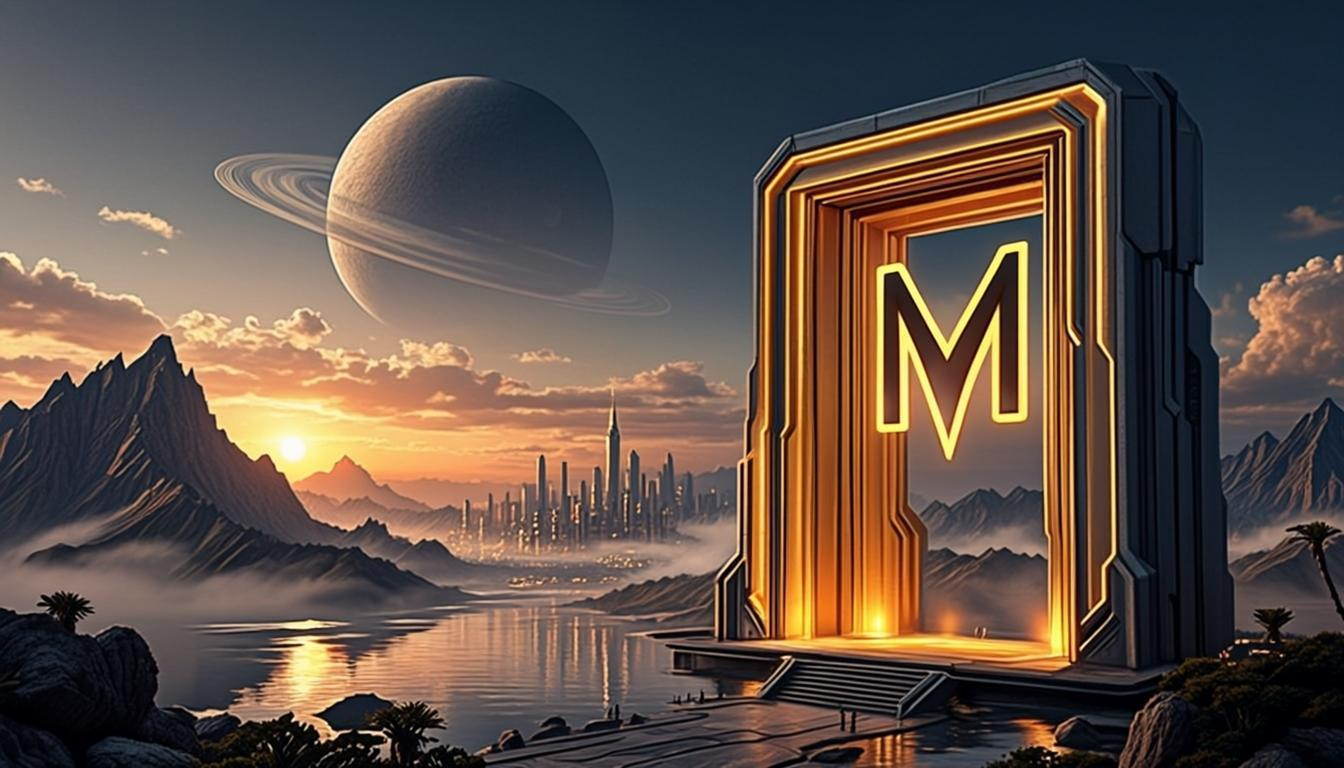
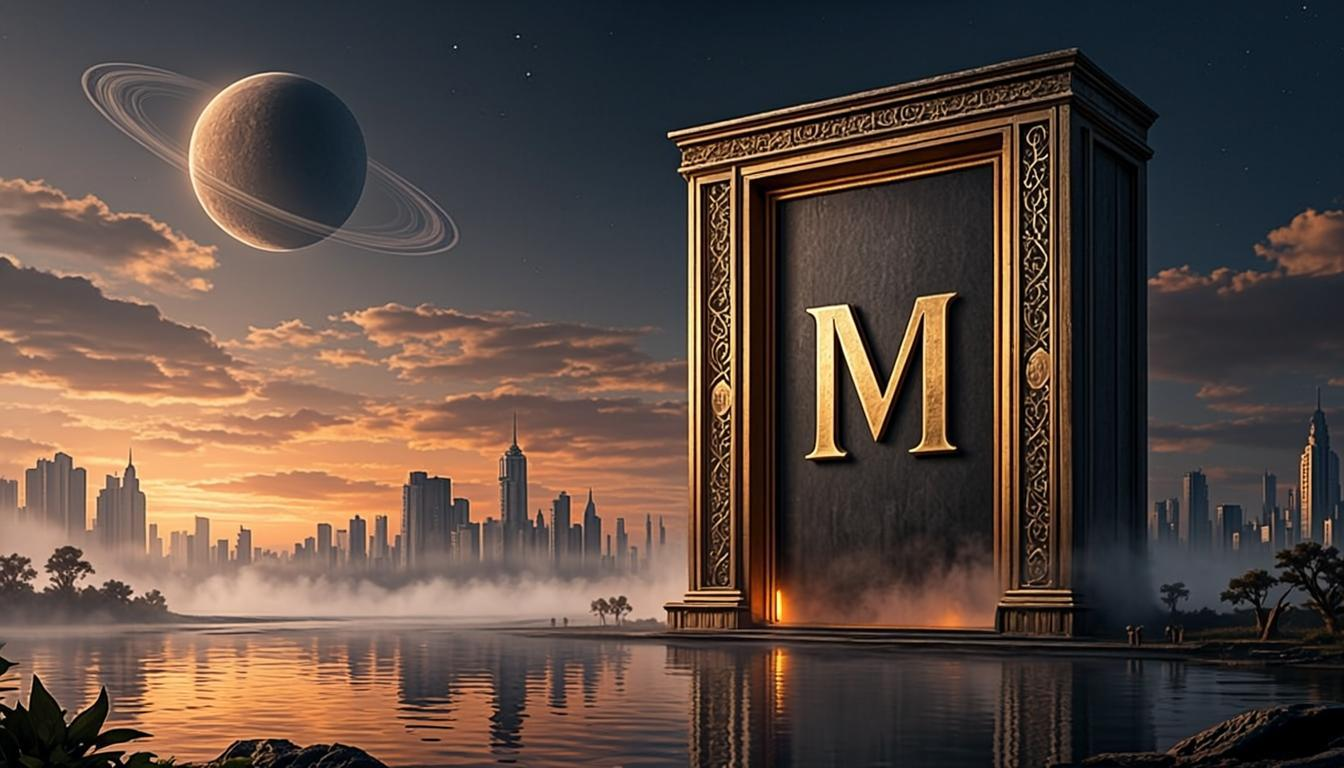
v25.14.2: final pixel-gap fixes — photorealistic hero + muted gold button (75% → target 80%+)
Per Task 20 VLM verification (75% match), 2 remaining gaps addressed:

1. HERO IMAGE COMPOSITION (FIXED):
   - Previous: ornate gold frame with mechanical/tech details
   - Reference: dark monolithic rectangular stone slab with THIN inner glow only
   - Fix: regenerated with 'dark monolithic stone slab portal, thin inner gold glow,
     photorealistic planet with ring, reflective water lake, blue-orange gradient sky,
     volumetric fog' — matches reference's photorealistic cinematic aesthetic

2. 'GET STARTED' BUTTON COLOR (FIXED):
   - Previous: solid bright gold (var(--gold) at 100%)
   - Reference: muted translucent gold
   - Fix: btn-primary now uses color-mix(in srgb, var(--gold) 75%, transparent) +
     backdrop-filter:blur(8px) for the muted translucent effect

All 5 pages HTTP 200, lint clean.

diff --git a/src/app/home.css b/src/app/home.css
@@ -123,9 +123,12 @@ h1 { margin: 0; }
   cursor: pointer; transition: all 180ms ease; text-decoration: none;
 }
 .btn-primary {
-  background: var(--gold); color: var(--background); border: 1px solid var(--gold);
+  background: color-mix(in srgb, var(--gold) 75%, transparent);
+  color: var(--background); border: 1px solid color-mix(in srgb, var(--gold) 60%, transparent);
+  backdrop-filter: blur(8px); -webkit-backdrop-filter: blur(8px);
 }
 .btn-primary:hover {
+  background: color-mix(in srgb, var(--gold) 85%, transparent);
   transform: translateY(-2px);
   box-shadow: 0 12px 36px color-mix(in srgb, var(--gold) 30%, transparent);
 }
